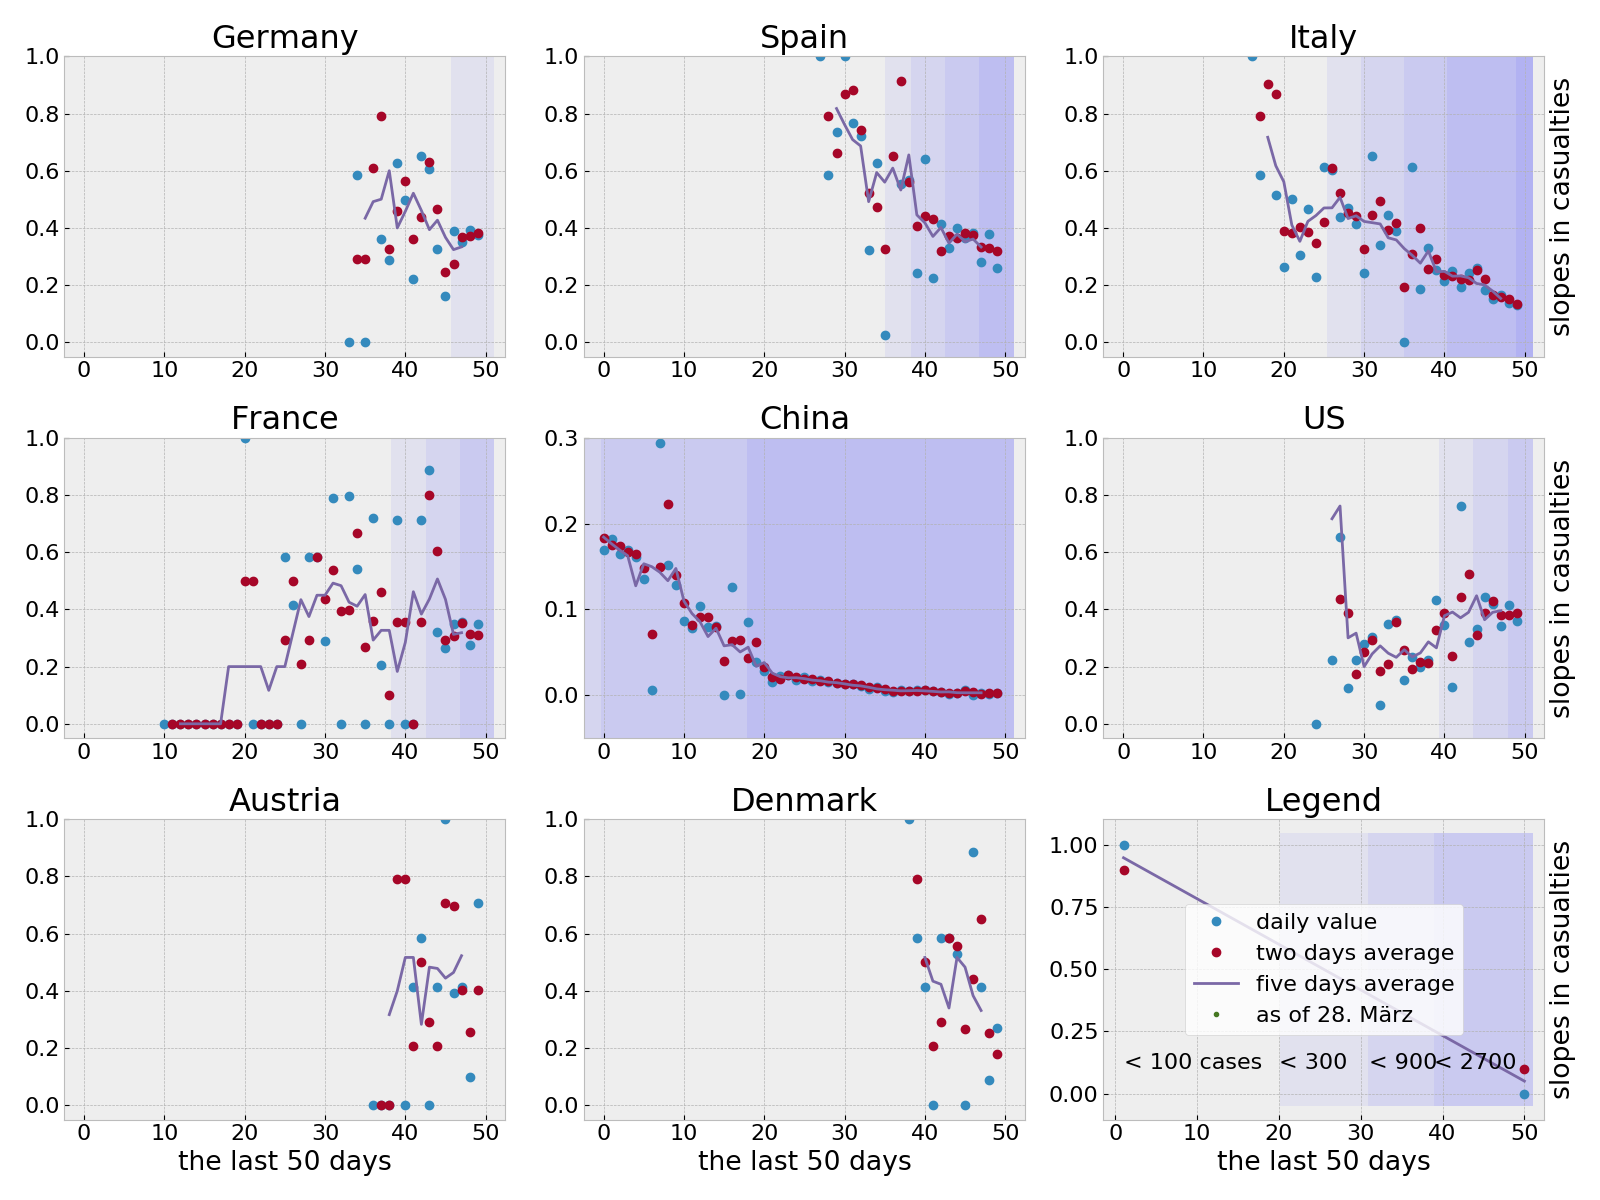
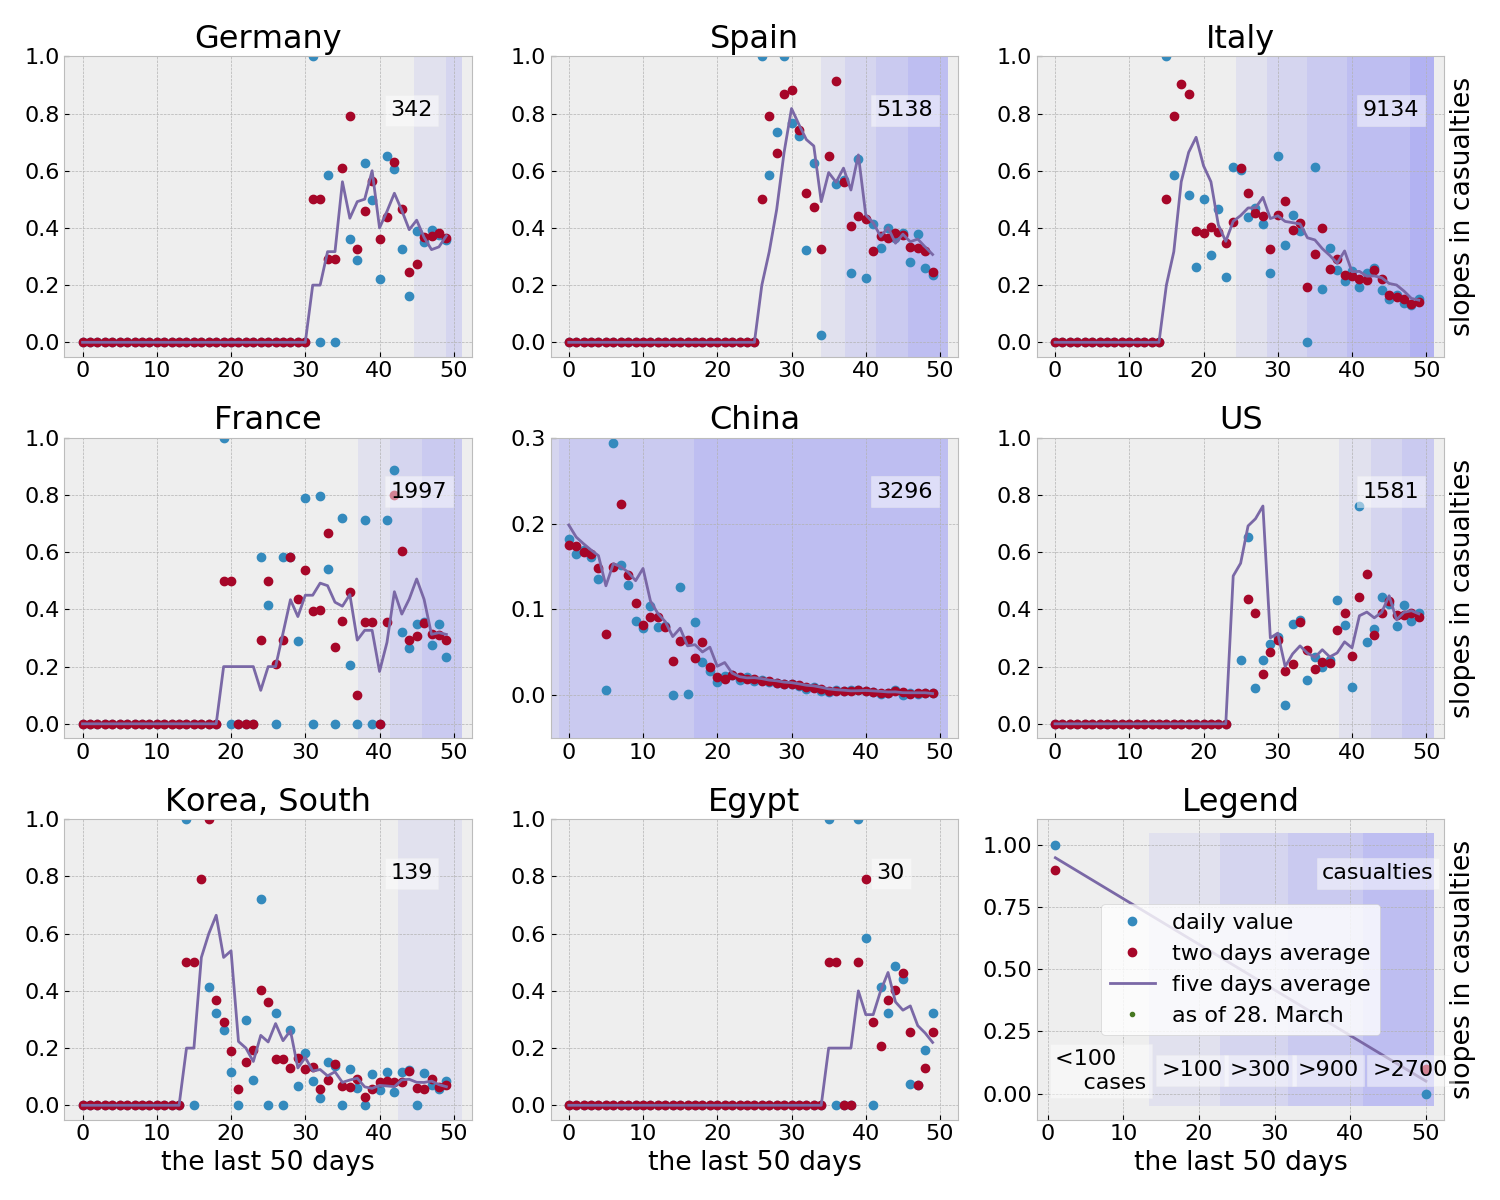
now nice plots

diff --git a/deathgrowthrates.py b/deathgrowthrates.py
@@ -2,7 +2,7 @@ import numpy as np
 import pandas as pd
 import matplotlib.pyplot as plt
 import matplotlib
-import datetime
+from ghc_helpers import plotlogslops, getthelogslope
 
 
 font = {'family': 'normal',
@@ -17,187 +17,27 @@ path = 'data/csse_covid_19_data/csse_covid_19_time_series/' +\
        'time_series_covid19_deaths_global.csv'
 deaths = pd.read_csv(path)
 
-now = datetime.datetime.now()
-today = 'as of {0}. '.format(now.day) + now.strftime("%B")
-
-# checking for the growth of deaths and whether it phases out
-# by examining the slope in the logarithmic plot
-# mycountryl = ['Austria', 'Switzerland', 'US',
-#               'United Kingdom', 'Korea, South']
-somecntrl = ['Austria', 'Brazil', 'Croatia',
-             'Denmark', 'Egypt', 'India',
-             'Korea, South', 'Netherlands', 'Russia',
-             'Sweden', 'Switzerland', 'United Kingdom']
+somecntrl = ['Argentina', 'Australia', 'Austria',
+             'Brazil', 'Croatia', 'Denmark',
+             'Egypt', 'India', 'Korea, South',
+             'Netherlands', 'Russia', 'Sweden',
+             'Switzerland', 'United Kingdom']
 
 tworands = np.random.randint(0, 10, (2, ))
 guestone = somecntrl[tworands[0]]
 guesttwo = somecntrl[tworands[1]]
 
-mycountryl = ['Germany', 'Spain', 'Italy', 'France', 'China', 'US',
-              guestone, guesttwo]
+mycountryl = ['Germany', 'Spain', 'Italy', 'France', 'China', 'US']
 
-ncs = len(mycountryl)
+somecntrl.extend(mycountryl)
+somecntrl.sort()
+mycountryl.extend([guestone, guesttwo])
+
 dtwo = deaths.copy()
 dtwo.drop(columns=['Lat', 'Long'], inplace=True)
-cfig = plt.figure(100, figsize=(16, 12), dpi=100)
-alphas = [.05*x for x in range(10)]
-for idx, mycountry in enumerate(mycountryl):
-    ax = cfig.add_subplot(3, 3, idx+1)
-    mcdtwo = dtwo[dtwo['Country/Region'] == mycountry]
-    # sick of pandas? -- convert the data frame to a numpy array
-    gdl = mcdtwo.values.tolist()
-    # only the numerical values
-    gda = np.array(gdl[0][2:])
-    # take the log of them
-    for gdll in gdl[1:]:  # sum up if there are more regions per country
-        gda = gda + np.array(gdll[2:])
-    # if mycountry == 'China':
-    #     import ipdb
-    #     ipdb.set_trace()
-
-    lggda = np.log2(gda)
-    # set the infs to zero
-    lggda[np.isneginf(lggda)] = np.NaN
-    # the slope is the difference
-    slopes = lggda[1:] - lggda[:-1]
-    # use an average
-    avgslopes = .5*(slopes[1:] + slopes[:-1])
-    fivedaysavrg = .2*(slopes[:-4] + slopes[1:-3] + slopes[2:-2]
-                       + slopes[3:-1] + slopes[4:])
-    fdl = fivedaysavrg.tolist()
-    # extend with NaN to align with the data in the plots
-    nfdl = [np.NaN, np.NaN]
-    nfdl.extend(fdl)
-    nfdl.extend([np.NaN, np.NaN])
-    ax.plot(slopes[-50:], 'o', label='daily value')
-    ax.plot(avgslopes[-50:], 'o', label='two days average')
-    ax.plot(nfdl[-50:], label='five days average')
-
-    ax.set_xlim(xmin=-2.45, xmax=52.45)
-    if mycountry == 'China':  # or mycountry == 'Korea, South'):
-        ymax = .3
-    else:
-        ymax = 1.
-    ax.set_ylim(ymin=-.05, ymax=ymax)
-
-    from ghc_helpers import getxranges
-    xranges = getxranges(gda[-50:], init=100, factor=3)
-    xranges.append(51)
-    lstxmin = 0
-    for kk, xrng in enumerate(xranges):
-        if xrng == 50:
-            xmax = 1
-        else:
-            xmax = .975*(xrng-1)/50
-        plt.axhspan(-.05, ymax, xmin=lstxmin, xmax=xmax, alpha=alphas[kk])
-        lstxmin = xmax
-
-    if idx == 6 or idx == 7:
-        ax.set_xlabel('the last 50 days')
-    if idx == 2 or idx == 5:
-        ax.set_ylabel('slopes in casualties')
-        ax.yaxis.set_label_position("right")
-
-    ax.set_title(mycountry)
-ax = cfig.add_subplot(3, 3, idx+2)
-ax.plot([1, 50], [1, 0], 'o', label='daily value')
-ax.plot([1, 50], [.9, .1], 'o', label='two days average')
-ax.plot([1, 50], [.95, .05], label='five days average')
-ax.plot(np.NaN, '.', label=today)
-# ax.axis('off')
-ax.legend(loc='center', facecolor='white')
-ax.set_xlabel('the last 50 days')
-ax.set_ylabel('slopes in casualties')
-ax.yaxis.set_label_position("right")
-plt.axhspan(-.05, 1.05, xmin=0.4, xmax=.6, alpha=.05)
-plt.axhspan(-.05, 1.05, xmin=0.6, xmax=.75, alpha=.1)
-plt.axhspan(-.05, 1.05, xmin=0.75, xmax=.975, alpha=.15)
-ax.text(1, 0.1, '< 100 cases')
-ax.text(20, 0.1, '< 300')
-ax.text(31, 0.1, '< 900')
-ax.text(39, 0.1, '< 2700')
-ax.set_title('Legend')
-plt.tight_layout()
-plt.savefig('slopes-dsifc.png')
-# plt.savefig('slopes-dsifc.pdf')
+cfig = plotlogslops(dtwo, mycountryl, figfile='slopes-dsifc.png')
+ccfig = plotlogslops(dtwo, somecntrl, fignum=200, figfile='slopes-dsifc.pdf')
 # plt.show()
-
-# # all countries as pdf
-mycountryl.extend(somecntrl)
-cfig = plt.figure(101, figsize=(16, 28), dpi=100)
-for idx, mycountry in enumerate(mycountryl):
-    ax = cfig.add_subplot(7, 3, idx+1)
-    mcdtwo = dtwo[dtwo['Country/Region'] == mycountry]
-    # sick of pandas? -- convert the data frame to a numpy array
-    gdl = mcdtwo.values.tolist()
-    # only the numerical values
-    gda = np.array(gdl[0][2:])
-    # take the log of them
-    for gdll in gdl[1:]:  # sum up if there are more regions per country
-        gda = gda + np.array(gdll[2:])
-    # if mycountry == 'China':
-    #     import ipdb
-    #     ipdb.set_trace()
-
-    lggda = np.log2(gda)
-    # set the infs to zero
-    lggda[np.isneginf(lggda)] = np.NaN
-    # the slope is the difference
-    slopes = lggda[1:] - lggda[:-1]
-    # use an average
-    avgslopes = .5*(slopes[1:] + slopes[:-1])
-    fivedaysavrg = .2*(slopes[:-4] + slopes[1:-3] + slopes[2:-2]
-                       + slopes[3:-1] + slopes[4:])
-    fdl = fivedaysavrg.tolist()
-    # extend with NaN to align with the data in the plots
-    nfdl = [np.NaN, np.NaN]
-    nfdl.extend(fdl)
-    nfdl.extend([np.NaN, np.NaN])
-    ax.plot(slopes[-50:], 'o', label='daily value')
-    ax.plot(avgslopes[-50:], 'o', label='two days average')
-    ax.plot(nfdl[-50:], label='five days average')
-    ax.set_xlim(xmin=-2.45, xmax=52.45)
-    if not (mycountry == 'China'):  # or mycountry == 'Korea, South'):
-        ax.set_ylim(ymin=-.05, ymax=1.)
-    if idx == 18 or idx == 19:
-        ax.set_xlabel('the last 50 days')
-    if (idx == 2 or idx == 5 or idx == 8 or
-            idx == 11 or idx == 14 or idx == 17):
-        ax.set_ylabel('slopes in casualties')
-        ax.yaxis.set_label_position("right")
-    ax.set_title(mycountry)
-ax = cfig.add_subplot(7, 3, idx+2)
-ax.plot([1, 50], [1, 0], 'o', label='daily value')
-ax.plot([1, 50], [.9, .1], 'o', label='two days average')
-ax.plot([1, 50], [.95, .05], label='five days average')
-ax.plot(np.NaN, '.', label=today)
-# ax.axis('off')
-ax.legend(loc='center', facecolor='white')
-ax.set_xlabel('the last 50 days')
-ax.set_ylabel('slopes in casualties')
-ax.yaxis.set_label_position("right")
-ax.set_title('Legend')
-plt.tight_layout()
-plt.savefig('slopes-dsifc.pdf')
-
-
-def getthelogslope(npa):
-    lggda = np.log2(npa)
-    # set the infs to zero
-    lggda[np.isneginf(lggda)] = 0
-    # the slope is the difference
-    slopes = lggda[1:] - lggda[:-1]
-    # use an average
-    avgslopes = .5*(slopes[1:] + slopes[:-1])
-    fivedaysavrg = .2*(slopes[:-4] + slopes[1:-3] + slopes[2:-2]
-                       + slopes[3:-1] + slopes[4:])
-    fdl = fivedaysavrg.tolist()
-    # extend with NaN to align with the data in the plots
-    nfdl = [np.NaN, np.NaN]
-    nfdl.extend(fdl)
-    nfdl.extend([np.NaN, np.NaN])
-    return slopes, avgslopes, fivedaysavrg
-
 
 # ## The plots of the example scenarios
 N = 80
@@ -267,4 +107,4 @@ plt.tight_layout()
 plt.savefig('slopes-icus-simulation.png')
 # plt.savefig('slopes-icus-simulation.pdf')
 
-# plt.show()
+plt.show()
